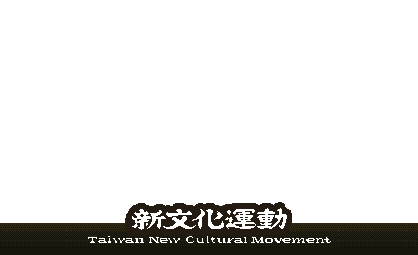
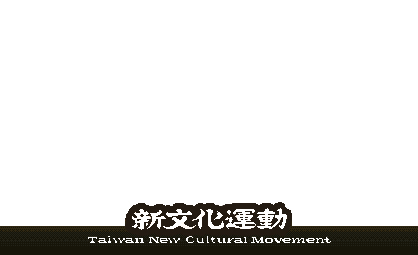
1049

Changed region(s): [[0.6842, 0.851, 1.0, 0.9059], [0.0, 0.851, 0.311, 0.9059]]

diff --git a/Script/ResourceLoader.js b/Script/ResourceLoader.js
@@ -247,7 +247,7 @@ async function SetObject() {
     start0.scale.set(globalImageScale, globalImageScale);
     start0.zIndex = 4;
     scene0.addChild(start0);
-    start0.y = -35;
+    start0.y = -33;
 
     scene0_but2 = new PIXI.Sprite.from("./Resource/Final/StartScene/StartBut01.png");
     scene0_but2.width = 806.74;
@@ -304,7 +304,7 @@ async function SetObject() {
     //1000->-200
     cat.zIndex = 3.5;
     cat.x = 1500;
-    cat.y = 300;
+    cat.y = 300-18;
     scene0.addChild(cat);
 
     let counter = 0;
